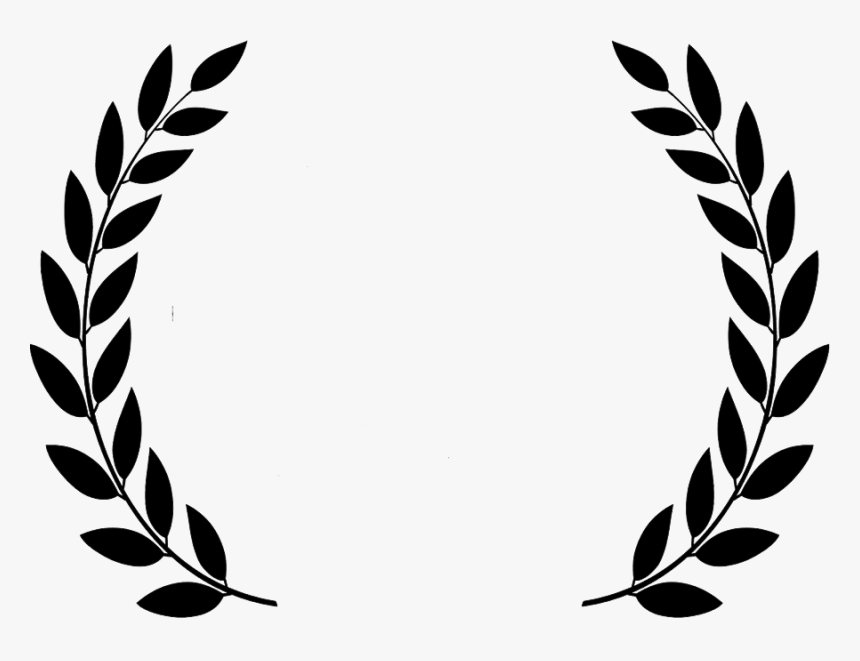
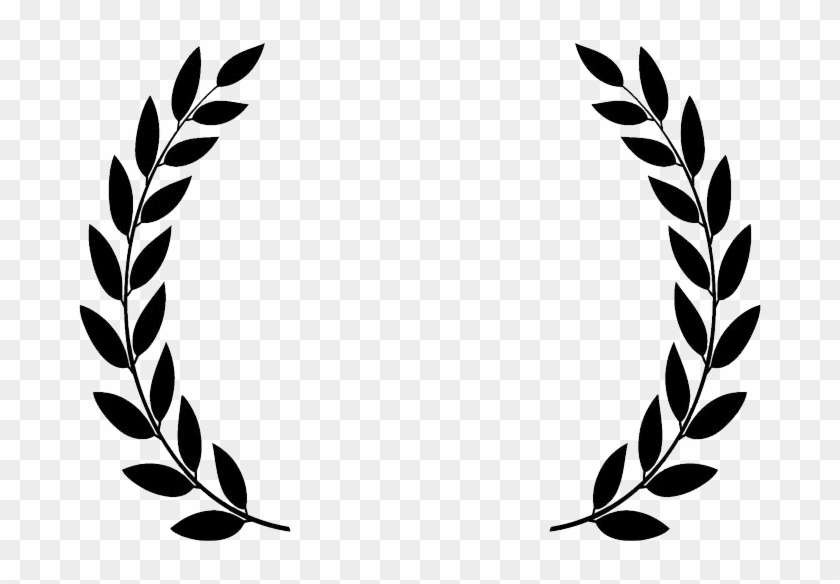
Try replacing bullets with image

Changed region(s): [[0.031, 0.0616, 0.3405, 0.9555], [0.65, 0.0616, 0.9905, 0.9555]]

diff --git a/public/stylesheets/home-page.css b/public/stylesheets/home-page.css
@@ -16,7 +16,11 @@ h2 {
 
 #sidebar {
     min-width: 250px;
-    padding-left: 15px;
+    padding-left: 25px;
+}
+
+.sidebar-section {
+    margin: 50px 0;
 }
 
 #sidebar a:hover {
@@ -40,6 +44,23 @@ h2 {
     padding: 10px;
     display: flex;
     justify-content: center;
+}
+
+.liked-by-ul {
+    margin: 0;
+    padding: 0;
+}
+
+.liked-by-li {
+    list-style-type: none;
+    padding-left: 35px;
+    /* background-color: white; */
+    background-image: url("/images/laurels.png");
+    background-blend-mode: lighten;
+    background-size: 25px;
+    background-repeat: no-repeat;
+    background-position: 1px;
+    margin: 5px 0;
 }
 
 table {
